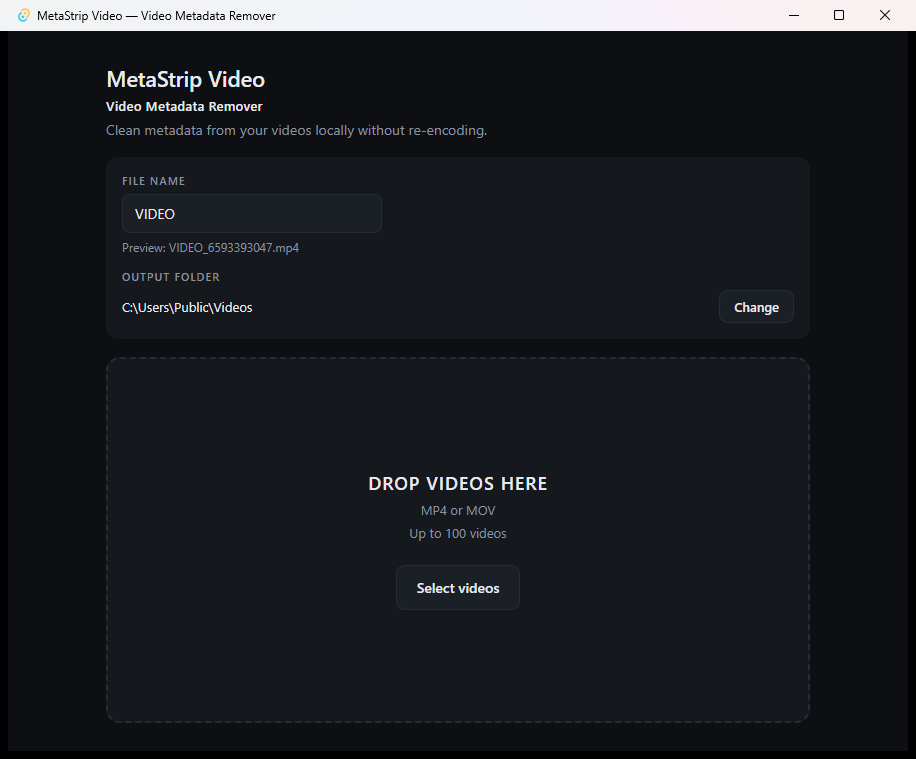
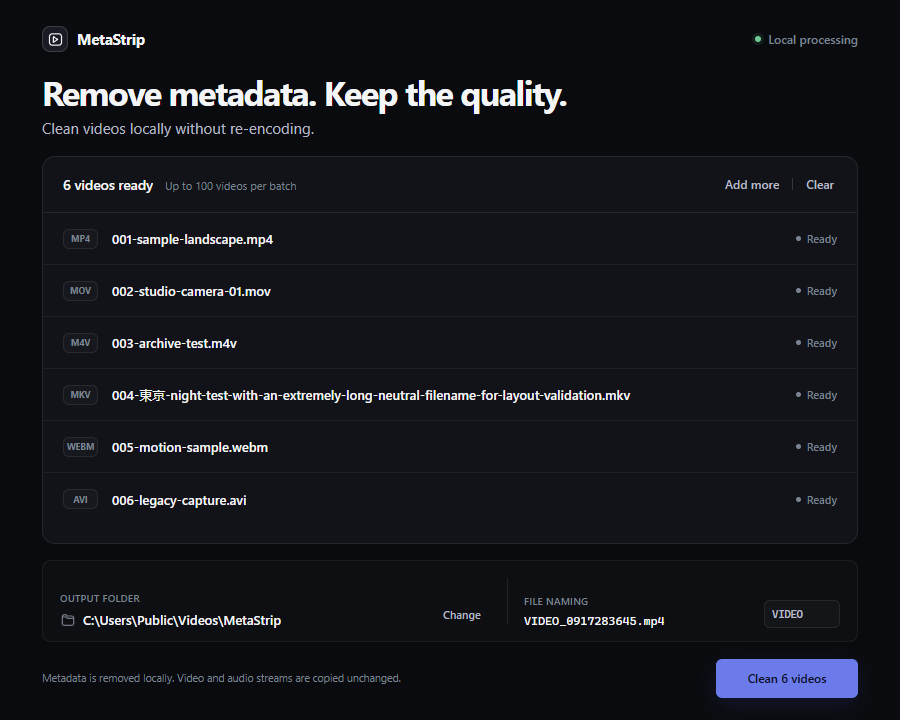
release: prepare v0.4.0

diff --git a/README.md b/README.md
@@ -1,7 +1,9 @@
 # MetaStrip Video — Video Metadata Remover
 
 > Fast, offline video metadata remover for Windows.
-> Strip metadata, chapters and data tracks from MP4 and MOV files without re-encoding.
+> Strip metadata, chapters and data tracks without re-encoding.
+>
+> **Supported:** MP4 · MOV · M4V · MKV · WebM · AVI
 
 [![Latest release](https://img.shields.io/github/v/release/emilioperna/metastrip-video?label=latest&color=2ea043)](https://github.com/emilioperna/metastrip-video/releases/latest)
 [![License: MIT](https://img.shields.io/badge/License-MIT-blue.svg)](LICENSE)
@@ -13,7 +15,7 @@
 **[Download MetaStrip Video for Windows →](https://github.com/emilioperna/metastrip-video/releases/latest)**
 Windows x86_64 · signed installer · FFmpeg bundled · no account
 
-![MetaStrip Video cleaning MP4 and MOV files on Windows](docs/assets/metastrip-video.png)
+![MetaStrip Video ready to clean MP4, MOV, M4V, MKV, WebM and AVI files](docs/assets/metastrip-video.png)
 
 <!-- Demo GIF goes here once recorded:
      ![Cleaning five videos with MetaStrip Video](docs/assets/demo.gif) -->
@@ -40,22 +42,24 @@ the metadata. Because the streams are copied rather than transcoded, cleaning is
 typically much faster than re-encoding, and the result looks exactly like the original.
 
 It is deliberately small: one window, one button, no project files and no settings page.
-And it is inspectable — the exact FFmpeg command it runs is
-[further down this page](#how-it-works), and the source is here to read.
+And it is inspectable — the FFmpeg strategy is documented
+[in this README](#how-it-works) and in
+[docs/DEVELOPMENT.md](docs/DEVELOPMENT.md), and the source is here to read.
 
 ## Features
 
 - Batch up to **100 videos** at a time
-- **MP4 and MOV**
-- Removes global metadata, per-stream metadata, chapters and data tracks
-- **No video re-encoding**, no audio re-encoding
-- Original files are never modified or deleted
-- Automatic unique output names, so nothing overwrites anything
-- Output folder and file-name prefix are remembered between runs
-- Atomic writes: a crash can never leave a half-written file under a finished name
-- Works offline; **FFmpeg is bundled**, nothing to install separately
+- **MP4, MOV, M4V, MKV, WebM and AVI**
+- Removes global metadata
+- Removes per-stream metadata
+- Removes chapters where the container exposes them
+- Removes data and unknown metadata streams where the container exposes them
+- **No video re-encoding**
+- **No audio re-encoding**
+- Original files are left untouched
+- Atomic outputs: a failed run never leaves a partial file under a finished name
+- **FFmpeg is bundled**, nothing to install separately
 - **Signed automatic updates** through GitHub Releases
-- Single Windows installer
 
 ## Download
 
@@ -80,11 +84,15 @@ Prefer to build it yourself? See [Building from source](#building-from-source).
 4. Press **Clean**.
 5. The cleaned copies are in the folder you chose.
 
-Every output is named `PREFIX_##########.mp4`, where the ten digits are a random ID
-that is never reused — for example `VIDEO_0917283645.mp4`. The originals keep their
-own names, in their own folder, unchanged.
+Every output is named `PREFIX_##########.<original-extension>`, where the ten digits
+are a random ID that is never reused — for example `VIDEO_0917283645.mkv`. The output
+keeps the input extension, and the originals keep their own names in their own folder,
+unchanged.
 
 ## What gets removed?
+
+MetaStrip removes supported metadata structures exposed by each container profile.
+Not every container or input carries every structure listed below.
 
 | Removed | Examples |
 | --- | --- |
@@ -96,7 +104,8 @@ own names, in their own folder, unchanged.
 | Data tracks | GoPro `gpmd` telemetry, iPhone `mebx`, other timed-metadata streams |
 
 Data tracks are worth calling out: stripping the tags around such a track leaves the
-track itself, payload and all. MetaStrip drops the tracks too.
+track itself, payload and all. MetaStrip drops those tracks when the container exposes
+them as data or unknown metadata streams.
 
 ## What stays untouched?
 
@@ -138,23 +147,33 @@ Your settings survive updates — the prefix, output folder and used-ID registry
 
 ## Supported formats
 
-| | |
+| Format | Container strategy |
 | --- | --- |
-| Input | MP4, MOV |
-| Output | Same container as the input |
-| Platform | Windows 10/11, x86_64 |
+| MP4 | ISO-BMFF, stream copy |
+| MOV | QuickTime/MOV, stream copy |
+| M4V | ISO-BMFF M4V only, stream copy |
+| MKV | Matroska, stream copy |
+| WebM | WebM-compatible codecs, stream copy |
+| AVI | AVI, stream copy |
+
+Supported format does not mean arbitrary codecs can be remuxed into that container.
+If stream-copy is incompatible, MetaStrip fails that file rather than re-encoding it.
+
+The current build targets Windows 10/11 on x86_64.
 
 ## How it works
 
-Per file, the app runs the bundled FFmpeg once:
+For each file, MetaStrip invokes the bundled FFmpeg with this common stream-copy core:
 
 ```
 ffmpeg -n -i INPUT \
   -map 0 -c copy \
-  -map_metadata -1 -map_metadata:s -1 -map_chapters -1 \
+  -map_metadata -1 \
+  -map_metadata:s -1 \
+  -map_chapters -1 \
   -dn \
   -fflags +bitexact \
-  -movflags +faststart \
+  ...container-specific options... \
   OUTPUT
 ```
 
@@ -165,9 +184,18 @@ ffmpeg -n -i INPUT \
 - `-dn` drops data tracks. `-map 0` would otherwise copy them, and a data track is
   metadata in its own right.
 - `-fflags +bitexact` keeps FFmpeg from stamping its own version into the output.
-- `-movflags +faststart` moves the index to the front so the file starts playing
-  immediately when streamed. If a container rejects it, the file is retried once
-  without it rather than failing.
+
+Container-specific behaviour is explicit:
+
+- **MP4, MOV and M4V:** select the appropriate muxer, add `-movflags +faststart`, and
+  retry once without faststart if that first stream-copy attempt fails.
+- **MKV:** select the Matroska muxer; no MOV flags are passed.
+- **WebM:** select the WebM muxer; no MOV flags are passed. A codec that WebM cannot
+  stream-copy fails that file and is never transcoded.
+- **AVI:** select the AVI muxer and add the unknown-stream handling needed when AVI
+  exposes metadata streams that `-dn` cannot classify; no MOV flags are passed.
+- **M4V validation:** only ISO-BMFF M4V files are accepted. Raw MPEG-4 elementary
+  streams using the `.m4v` extension are rejected before processing.
 
 FFmpeg writes to a temporary name, and the file is renamed into place only after it
 exits successfully. An interrupted run can therefore leave a leftover temporary file,
@@ -180,18 +208,23 @@ More detail — the FFmpeg sidecar, the ID registry, stored state — is in
 ## Limitations
 
 - **Windows x86_64 only** today. The bundled FFmpeg is a Windows binary.
-- **MP4 and MOV only.**
-- MetaStrip removes what the pipeline above removes. It is **not a forensic
+- Supported containers are **MP4, MOV, M4V, MKV, WebM and AVI**.
+- A supported container does not guarantee arbitrary codec compatibility.
+- There is no transcoding fallback: incompatible stream-copy fails that file.
+- Raw MPEG-4 elementary streams using the `.m4v` extension are rejected; M4V support
+  is limited to ISO-BMFF files.
+- MetaStrip is **not a forensic
   anonymisation tool**, and makes no claim that a cleaned file is unidentifiable:
   encoder characteristics, frame content and the container structure all remain.
 - The output container is rewritten, so the file is not byte-identical to the input.
+- When processing succeeds, video and audio streams remain encoded as-is.
 
 ## Roadmap
 
 Nothing is promised, but these are the realistic next steps:
 
-- More container formats
-- An evaluation of macOS and Linux builds, which need their own FFmpeg sidecar
+- Additional formats only when they can meet the same regression standard
+- Evaluate macOS and Linux builds, which need their own FFmpeg sidecars
 
 ## Building from source
 
@@ -242,7 +275,7 @@ update check.
 
 **Do I need FFmpeg installed?** No, it is bundled with the app.
 
-**Which formats?** MP4 and MOV.
+**Which formats?** MP4, MOV, M4V, MKV, WebM and AVI.
 
 **Does it update itself?** Yes, through signed updates from GitHub Releases.
 
